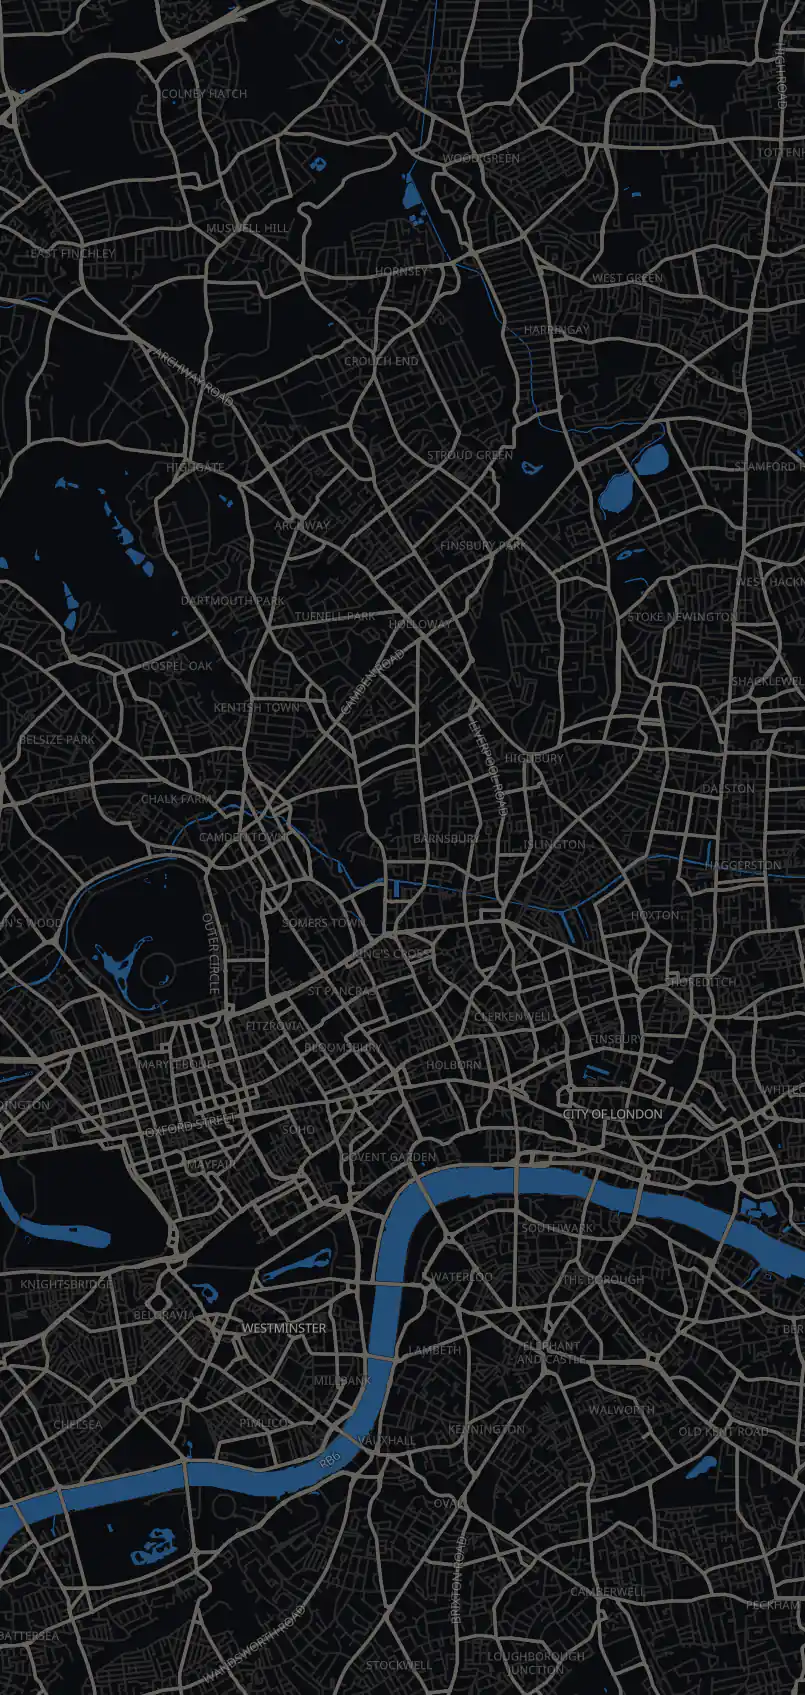
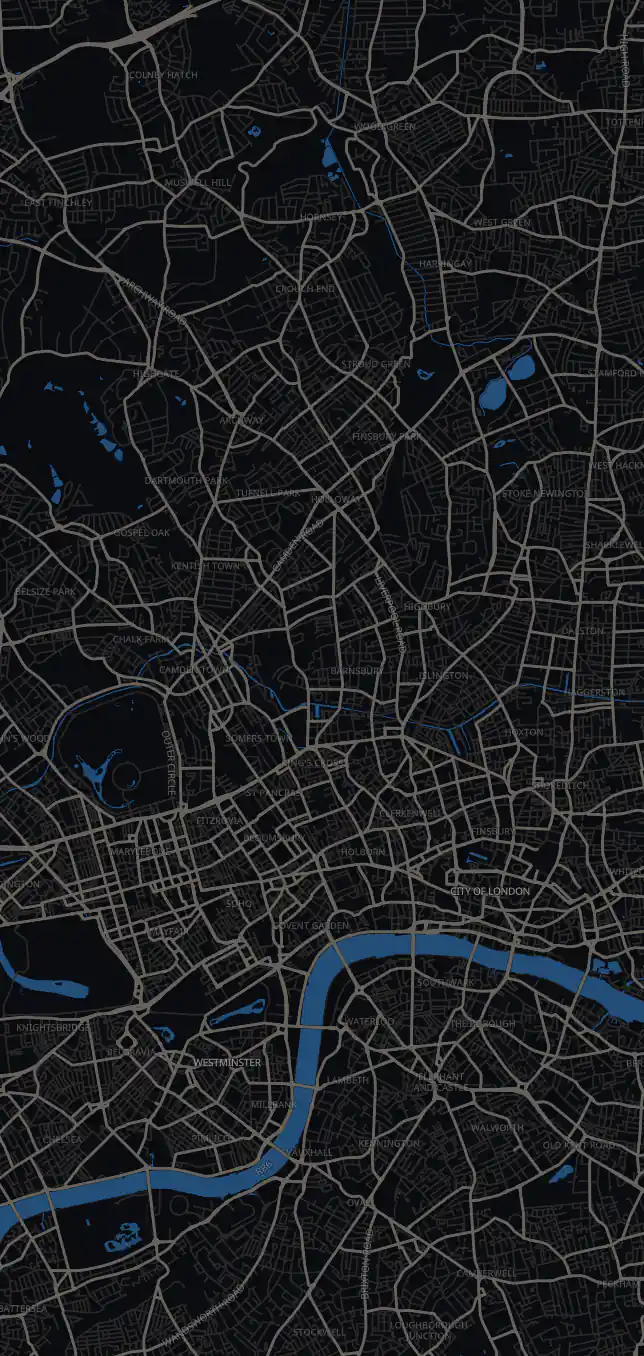
perf(map): warm the map engine files early and slim the opening picture
A cold phone waited for the MapLibre worker, the basemap style and its
TileJSON at the very end of the /map load, one after another. The map
shell now asks for them when it mounts, with the same URL, mode and
credentials, so the engine's own requests reuse the downloads.

The opening preview picture is captured at 1x instead of 1.25x under an
88 KB ceiling (was 120 KB): night 116 KB to 85 KB, light 98 KB to 67 KB.

Measured on a local production build, Slow 4G, 4x CPU, 390x844,
pubmax:pins-visible, 3 alternating cold runs each: median 16.2 s to 14.1 s.

Changed region(s): [[0.1863, 0.6504, 0.3106, 0.6814], [0.1863, 0.8982, 0.2174, 0.9292]]

diff --git a/__tests__/mapEngineWarm.test.ts b/__tests__/mapEngineWarm.test.ts
@@ -1,0 +1,78 @@
+import { afterEach, describe, expect, it, vi } from "vitest";
+
+import { MAP_STYLES } from "@/lib/mapBasemapStyles";
+import { MAPLIBRE_WORKER_URL } from "@/lib/maplibreWorkerAssets";
+
+const TILE_JSON = "https://tiles.openfreemap.org/planet";
+
+function styleResponse(): Response {
+  return new Response(
+    JSON.stringify({
+      sources: {
+        openmaptiles: { type: "vector", url: TILE_JSON },
+        ne2_shaded: { type: "raster", tiles: ["https://example.test/{z}/{x}/{y}.png"] },
+      },
+    }),
+  );
+}
+
+async function loadWarm(theme: "dark" | "light", fetchImpl: (url: string) => Promise<Response>) {
+  vi.resetModules();
+  vi.stubGlobal("document", { documentElement: { dataset: { theme } } });
+  const fetchSpy = vi.fn(fetchImpl);
+  vi.stubGlobal("fetch", fetchSpy);
+  const { warmMapEngine } = await import("@/lib/mapEngineWarm");
+  return { warmMapEngine, fetchSpy };
+}
+
+const settle = () => new Promise((resolve) => setTimeout(resolve, 0));
+
+afterEach(() => {
+  vi.unstubAllGlobals();
+});
+
+describe("warmMapEngine", () => {
+  it("asks once for the worker, the theme's style and the style's TileJSON", async () => {
+    const { warmMapEngine, fetchSpy } = await loadWarm("dark", async (url) =>
+      url === MAP_STYLES.dark ? styleResponse() : new Response("x"),
+    );
+
+    warmMapEngine();
+    warmMapEngine();
+    await settle();
+    await settle();
+
+    expect(fetchSpy.mock.calls.map(([url]) => url).sort()).toEqual(
+      [MAPLIBRE_WORKER_URL, MAP_STYLES.dark, TILE_JSON].sort(),
+    );
+  });
+
+  it("follows the light theme to its own style", async () => {
+    const { warmMapEngine, fetchSpy } = await loadWarm("light", async (url) =>
+      url === MAP_STYLES.light ? styleResponse() : new Response("x"),
+    );
+
+    warmMapEngine();
+    await settle();
+
+    expect(fetchSpy.mock.calls.map(([url]) => url)).toContain(MAP_STYLES.light);
+    expect(fetchSpy.mock.calls.map(([url]) => url)).not.toContain(MAP_STYLES.dark);
+  });
+
+  it("swallows a failed or refused download", async () => {
+    const unhandled = vi.fn();
+    process.on("unhandledRejection", unhandled);
+    const { warmMapEngine, fetchSpy } = await loadWarm("dark", async (url) => {
+      if (url === MAPLIBRE_WORKER_URL) throw new TypeError("offline");
+      return new Response("nope", { status: 503 });
+    });
+
+    expect(() => warmMapEngine()).not.toThrow();
+    await settle();
+    await settle();
+    process.off("unhandledRejection", unhandled);
+
+    expect(unhandled).not.toHaveBeenCalled();
+    expect(fetchSpy.mock.calls.map(([url]) => url)).not.toContain(TILE_JSON);
+  });
+});

diff --git a/lib/mapEngineWarm.ts b/lib/mapEngineWarm.ts
@@ -1,0 +1,53 @@
+import { MAP_STYLES } from "@/lib/mapBasemapStyles";
+import { MAPLIBRE_WORKER_URL } from "@/lib/maplibreWorkerAssets";
+
+// No pin draws before MapLibre has its worker module, the basemap style and the
+// style's TileJSON. Left alone, the engine asks for the style only once the map
+// exists and for the worker only once the style has loaded, so on a cold phone
+// those downloads queue at the very end of the wait. This asks for the same
+// URLs, with the same mode and credentials, when the map shell mounts, so the
+// engine's own requests wait on or reuse these and each file crosses the wire
+// once. Measured on a cold throttled phone: pins 1.1 s sooner.
+
+type BasemapTheme = keyof typeof MAP_STYLES;
+
+let warmed = false;
+
+function okResponse(request: Promise<Response>): Promise<Response | null> {
+  return request.then(
+    (response) => {
+      if (response.ok) return response;
+      void response.body?.cancel().catch(() => {});
+      return null;
+    },
+    () => null,
+  );
+}
+
+function readToEnd(url: string): void {
+  void okResponse(fetch(url))
+    .then((response) => response?.arrayBuffer())
+    .catch(() => {});
+}
+
+async function warmStyle(theme: BasemapTheme): Promise<void> {
+  const response = await okResponse(fetch(MAP_STYLES[theme]));
+  const style: unknown = await response?.json().catch(() => null);
+  const sources =
+    style && typeof style === "object" && "sources" in style ? style.sources : null;
+  if (!sources || typeof sources !== "object") return;
+  for (const source of Object.values(sources)) {
+    if (source && typeof source === "object" && "url" in source && typeof source.url === "string") {
+      readToEnd(source.url);
+    }
+  }
+}
+
+/** Start the map engine's own downloads. Once per page, and it never throws. */
+export function warmMapEngine(): void {
+  if (warmed || typeof fetch !== "function" || typeof document === "undefined") return;
+  warmed = true;
+  const theme: BasemapTheme = document.documentElement.dataset.theme === "dark" ? "dark" : "light";
+  readToEnd(MAPLIBRE_WORKER_URL);
+  void warmStyle(theme).catch(() => {});
+}

diff --git a/__tests__/surfaceReadFence.test.ts b/__tests__/surfaceReadFence.test.ts
@@ -119,6 +119,7 @@ const SURFACE_READ_EXEMPTIONS = [
   { path: "lib/landingEvidenceRead.ts", fetchCount: 1, reason: "the landing's near-you answer reads one venue detail per printed price (the answer and the saving line's doorstep pub) after a location grant or tap, each with its own deadline; a per-tap evidence read, never a painted reload surface" },
   { path: "lib/heritage.ts", fetchCount: 1, reason: "heritage question is a user-submitted request, not a painted reload surface" },
   { path: "lib/posthogServer.ts", fetchCount: 2, reason: "server-side PostHog capture, fire-and-forget telemetry reached through lib/heritage.ts's model-call tracing, never painted data" },
+  { path: "lib/mapEngineWarm.ts", fetchCount: 2, reason: "the map engine warm fills the HTTP cache with the MapLibre worker, basemap style and TileJSON the engine asks for itself, never painted data" },
   { path: "lib/pois.ts", fetchCount: 1, reason: "map POI pack is static viewport data with map-owned lifecycle" },
   { path: "lib/spoonsValueLane.ts", fetchCount: 1, reason: "the Spoons value map lane is fetched only when the lens is switched on, holds its own per-session cache, and never caches a read that failed so switching the lens off and on asks again" },
   { path: "lib/tflDisruption.ts", fetchCount: 1, reason: "transport provider client has its own live disruption contract" },

diff --git a/components/map/canvas/tokens.ts b/components/map/canvas/tokens.ts
@@ -15,20 +15,7 @@ import {
 
 export type BasemapProvider = "openfreemap" | "carto";
 
-// OpenFreeMap vector styles — truly keyless, MIT-licensed styles on ODbL/OSM
-// data (free for commercial use, unlike CARTO's basemaps), and OpenMapTiles
-// schema: a `building` source-layer with `render_height` for our 3-D extrusion.
-// "liberty" is a rich, colourful consumer-map look (land-use tints, POI labels,
-// road hierarchy); "dark" matches our candle-lit night mode.
-export const MAP_STYLES = {
-  dark: "https://tiles.openfreemap.org/styles/dark",
-  // Positron, not Liberty: Liberty is the full-colour OSM look (yellow POIs,
-  // pastel landuse) and read as a different product next to the bar-mat dark
-  // theme (owner audit). Positron is the muted paper-grey sibling on the same
-  // openmaptiles source, so buildScene's building/3-D layers keep working.
-  // A fully brand-tinted custom style JSON remains the follow-up.
-  light: "https://tiles.openfreemap.org/styles/positron",
-} as const;
+export { MAP_STYLES } from "@/lib/mapBasemapStyles";
 
 // If OpenFreeMap (community-run) is slow or down, fall back to CARTO's keyless
 // vector styles — same OpenMapTiles-ish `building` source-layer so 3-D buildings

diff --git a/lib/mapBasemapStyles.ts b/lib/mapBasemapStyles.ts
@@ -1,0 +1,14 @@
+// OpenFreeMap vector styles — truly keyless, MIT-licensed styles on ODbL/OSM
+// data (free for commercial use, unlike CARTO's basemaps), and OpenMapTiles
+// schema: a `building` source-layer with `render_height` for our 3-D extrusion.
+// "liberty" is a rich, colourful consumer-map look (land-use tints, POI labels,
+// road hierarchy); "dark" matches our candle-lit night mode.
+export const MAP_STYLES = {
+  dark: "https://tiles.openfreemap.org/styles/dark",
+  // Positron, not Liberty: Liberty is the full-colour OSM look (yellow POIs,
+  // pastel landuse) and read as a different product next to the bar-mat dark
+  // theme (owner audit). Positron is the muted paper-grey sibling on the same
+  // openmaptiles source, so buildScene's building/3-D layers keep working.
+  // A fully brand-tinted custom style JSON remains the follow-up.
+  light: "https://tiles.openfreemap.org/styles/positron",
+} as const;

diff --git a/lib/maplibreWorkerAssets.ts b/lib/maplibreWorkerAssets.ts
@@ -7,11 +7,9 @@
 // (npm run prepare:maplibre-worker), which runs before dev and before every
 // build, and PubMapCanvas tells MapLibre to spawn the worker from here.
 //
-// NO DOCUMENT NAMES OR WARMS THE PAIR. Fetching it early was built, measured
-// and REVERTED (9b6dbcd8c, reverted by c52bb928b): the first tappable pin did
-// not move, and perf/AGENTS.md forbids a fetch before `pubmax:first-pins`.
-// Naming it in a `<meta>` was measured too and bought no byte and no fetch
-// (docs/proof/venue-price-updates-per-venue/).
+// The document never names the worker, and public/map-first-paint-init.js
+// never fetches it. lib/mapEngineWarm.ts asks for it when the map shell mounts,
+// which an interleaved A/B measured moving the pins.
 
 /** The worker module MapLibre is told to spawn. */
 export const MAPLIBRE_WORKER_URL = "/vendor/maplibre/maplibre-gl-worker.mjs";

diff --git a/components/PubMap.tsx b/components/PubMap.tsx
@@ -1,5 +1,6 @@
 "use client";
 
+import { warmMapEngine } from "@/lib/mapEngineWarm";
 import VenueFeatureFilters from "@/components/map/VenueFeatureFilters";
 import { mapDrinkCoverage } from "@/lib/drinkCoverage";
 import { venueToPricedPoint } from "@/lib/nearMeAnswer";
@@ -1376,6 +1377,7 @@ export default function PubMap({
   const searchParams = useSearchParams();
   useEffect(() => {
     markPubmaxTiming("pubmax:map-chunk-ready");
+    warmMapEngine();
   }, []);
   // Deep-link /map/<city> (and CitySwitcher arrivals) stick as the Map/Drop
   // preference so the next tab tap does not bounce back to London.

diff --git a/__tests__/mapOpeningSnapshot.test.ts b/__tests__/mapOpeningSnapshot.test.ts
@@ -32,7 +32,7 @@ const meta = mapOpeningSnapshot as unknown as MapOpeningSnapshotMeta;
 const REGENERATE = "stale: run npm run build:map-opening-snapshot (see scripts/build_map_opening_snapshot.mjs)";
 
 /** The wire ceiling for one picture: it is fetched before the pins are. */
-const MAX_PICTURE_BYTES = 120 * 1024;
+const MAX_PICTURE_BYTES = 88 * 1024;
 
 describe("the committed opening basemap picture", () => {
   it("was captured for the camera a cold first visit opens on", () => {
